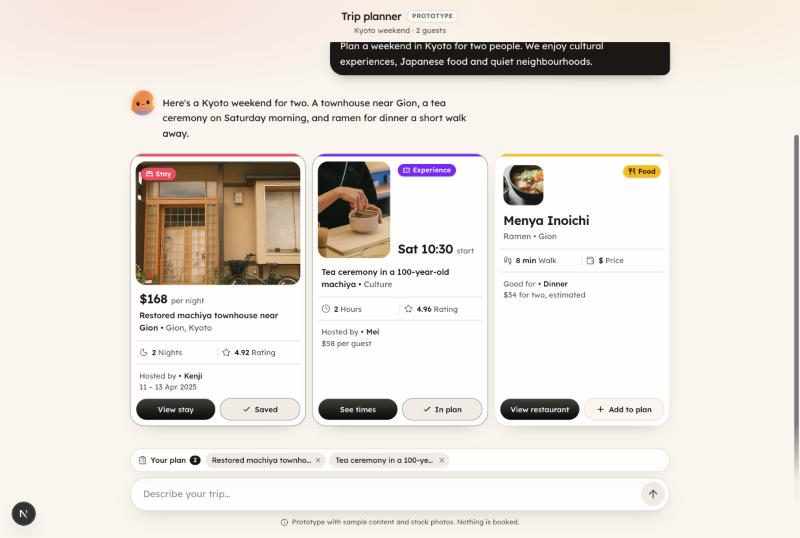
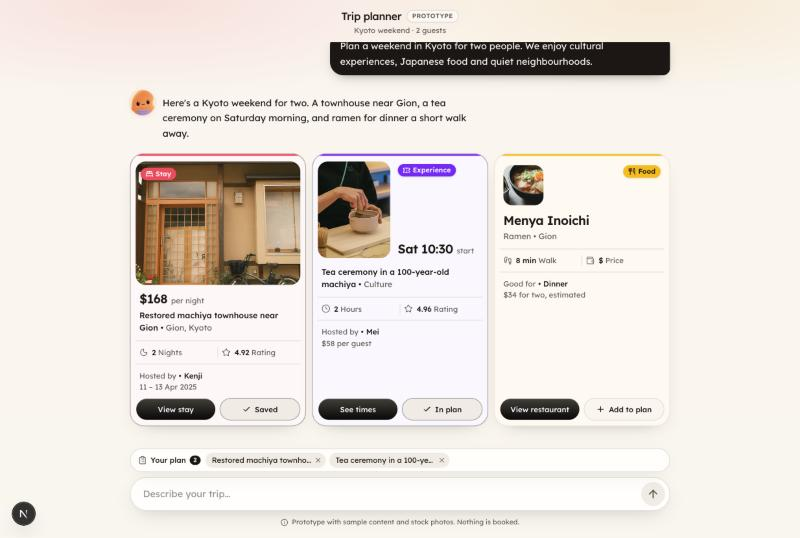
Thinner accent rule (3px) and a light pastel background per card

diff --git a/src/components/cards/card-parts.tsx b/src/components/cards/card-parts.tsx
@@ -20,9 +20,10 @@ import { cn } from "@/lib/utils";
  */
 
 const accents = {
-  coral: { badge: "bg-coral text-white", rule: "bg-coral" },
-  violet: { badge: "bg-violet-600 text-white", rule: "bg-violet-600" },
-  amber: { badge: "bg-amber-400 text-ink", rule: "bg-amber-400" },
+  // `card` is a very light pastel wash of the accent, behind the whole card.
+  coral: { badge: "bg-coral text-white", rule: "bg-coral", card: "bg-[#fff7f8]" },
+  violet: { badge: "bg-violet-600 text-white", rule: "bg-violet-600", card: "bg-[#faf8ff]" },
+  amber: { badge: "bg-amber-400 text-ink", rule: "bg-amber-400", card: "bg-[#fffaf0]" },
 } as const;
 
 export type CardAccent = keyof typeof accents;
@@ -196,12 +197,13 @@ export function TripCardShell({ view }: { view: TripCardView }) {
       data-layout={view.layout}
       data-in-plan={inPlan}
       className={cn(
-        "relative flex h-full flex-col overflow-hidden rounded-[22px] border bg-card p-2 pt-3 shadow-[0_14px_30px_-22px_rgb(28_25_23/0.45)] transition-colors",
+        "relative flex h-full flex-col overflow-hidden rounded-[22px] border p-2 pt-3 shadow-[0_14px_30px_-22px_rgb(28_25_23/0.45)] transition-colors",
+        accents[view.badge.accent].card,
         inPlan ? "border-ink/40" : "border-border/70",
       )}
     >
       {/* Accent rule across the top: the card's colour, visible even before the photo loads. */}
-      <span aria-hidden="true" className={cn("absolute inset-x-0 top-0 h-1", accents[view.badge.accent].rule)} />
+      <span aria-hidden="true" className={cn("absolute inset-x-0 top-0 h-[3px]", accents[view.badge.accent].rule)} />
 
       <CardTop view={view} />
 

diff --git a/docs/card-and-error-state-spec.md b/docs/card-and-error-state-spec.md
@@ -16,7 +16,7 @@ One-page card and error-state spec for the Airbnb conversational trip-planner pr
 | Biggest text | Nightly price, "$168 per night" | Start time, "Sat 10:30 start" | Restaurant name, "Menya Inoichi" |
 | Accent colour | Coral | Violet | Amber |
 
-The accent colour shows as a filled badge with the card type in words ("Stay", "Experience", "Food") and a rule across the top of the card, so colour is never the only cue. An earlier version merged the three into one identical layout to match a reference listing card; that lost the first two differences and was reverted.
+The accent colour shows as a filled badge with the card type in words ("Stay", "Experience", "Food") a 3px rule across the top of the card and a very light pastel wash behind the card, so colour is never the only cue. An earlier version merged the three into one identical layout to match a reference listing card; that lost the first two differences and was reverted.
 
 ```
  STAY                        EXPERIENCE                  FOOD
